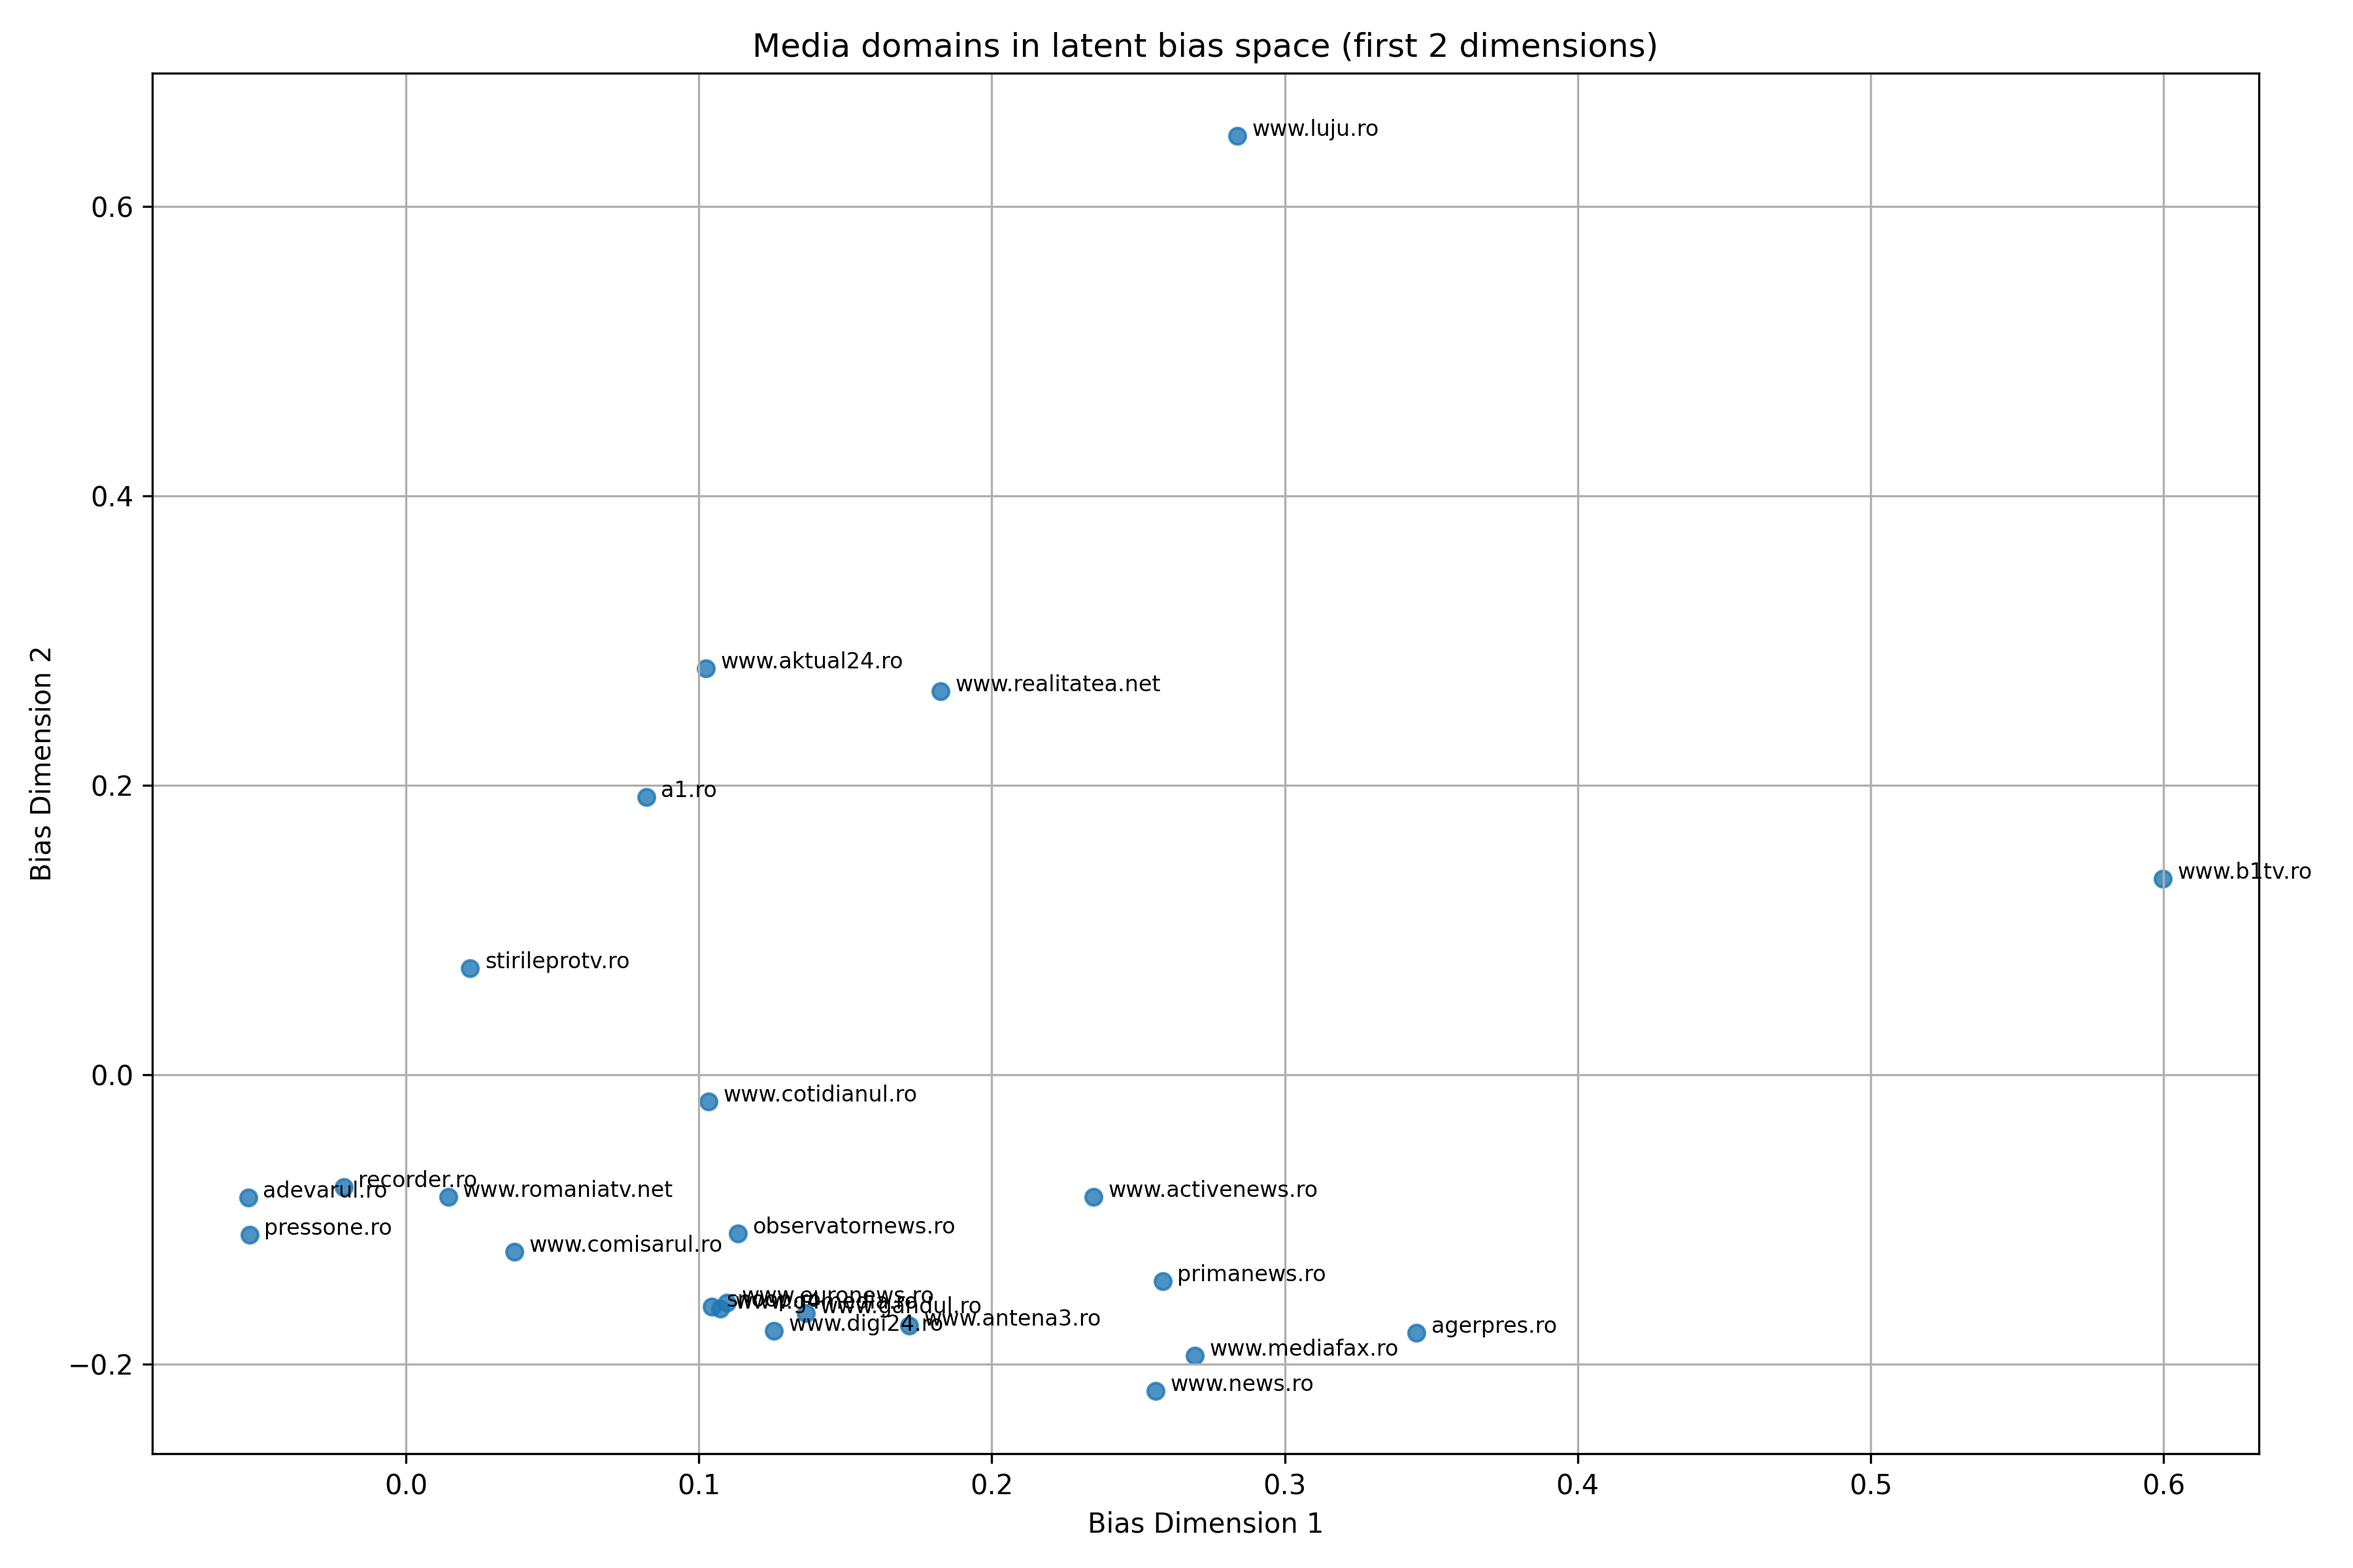
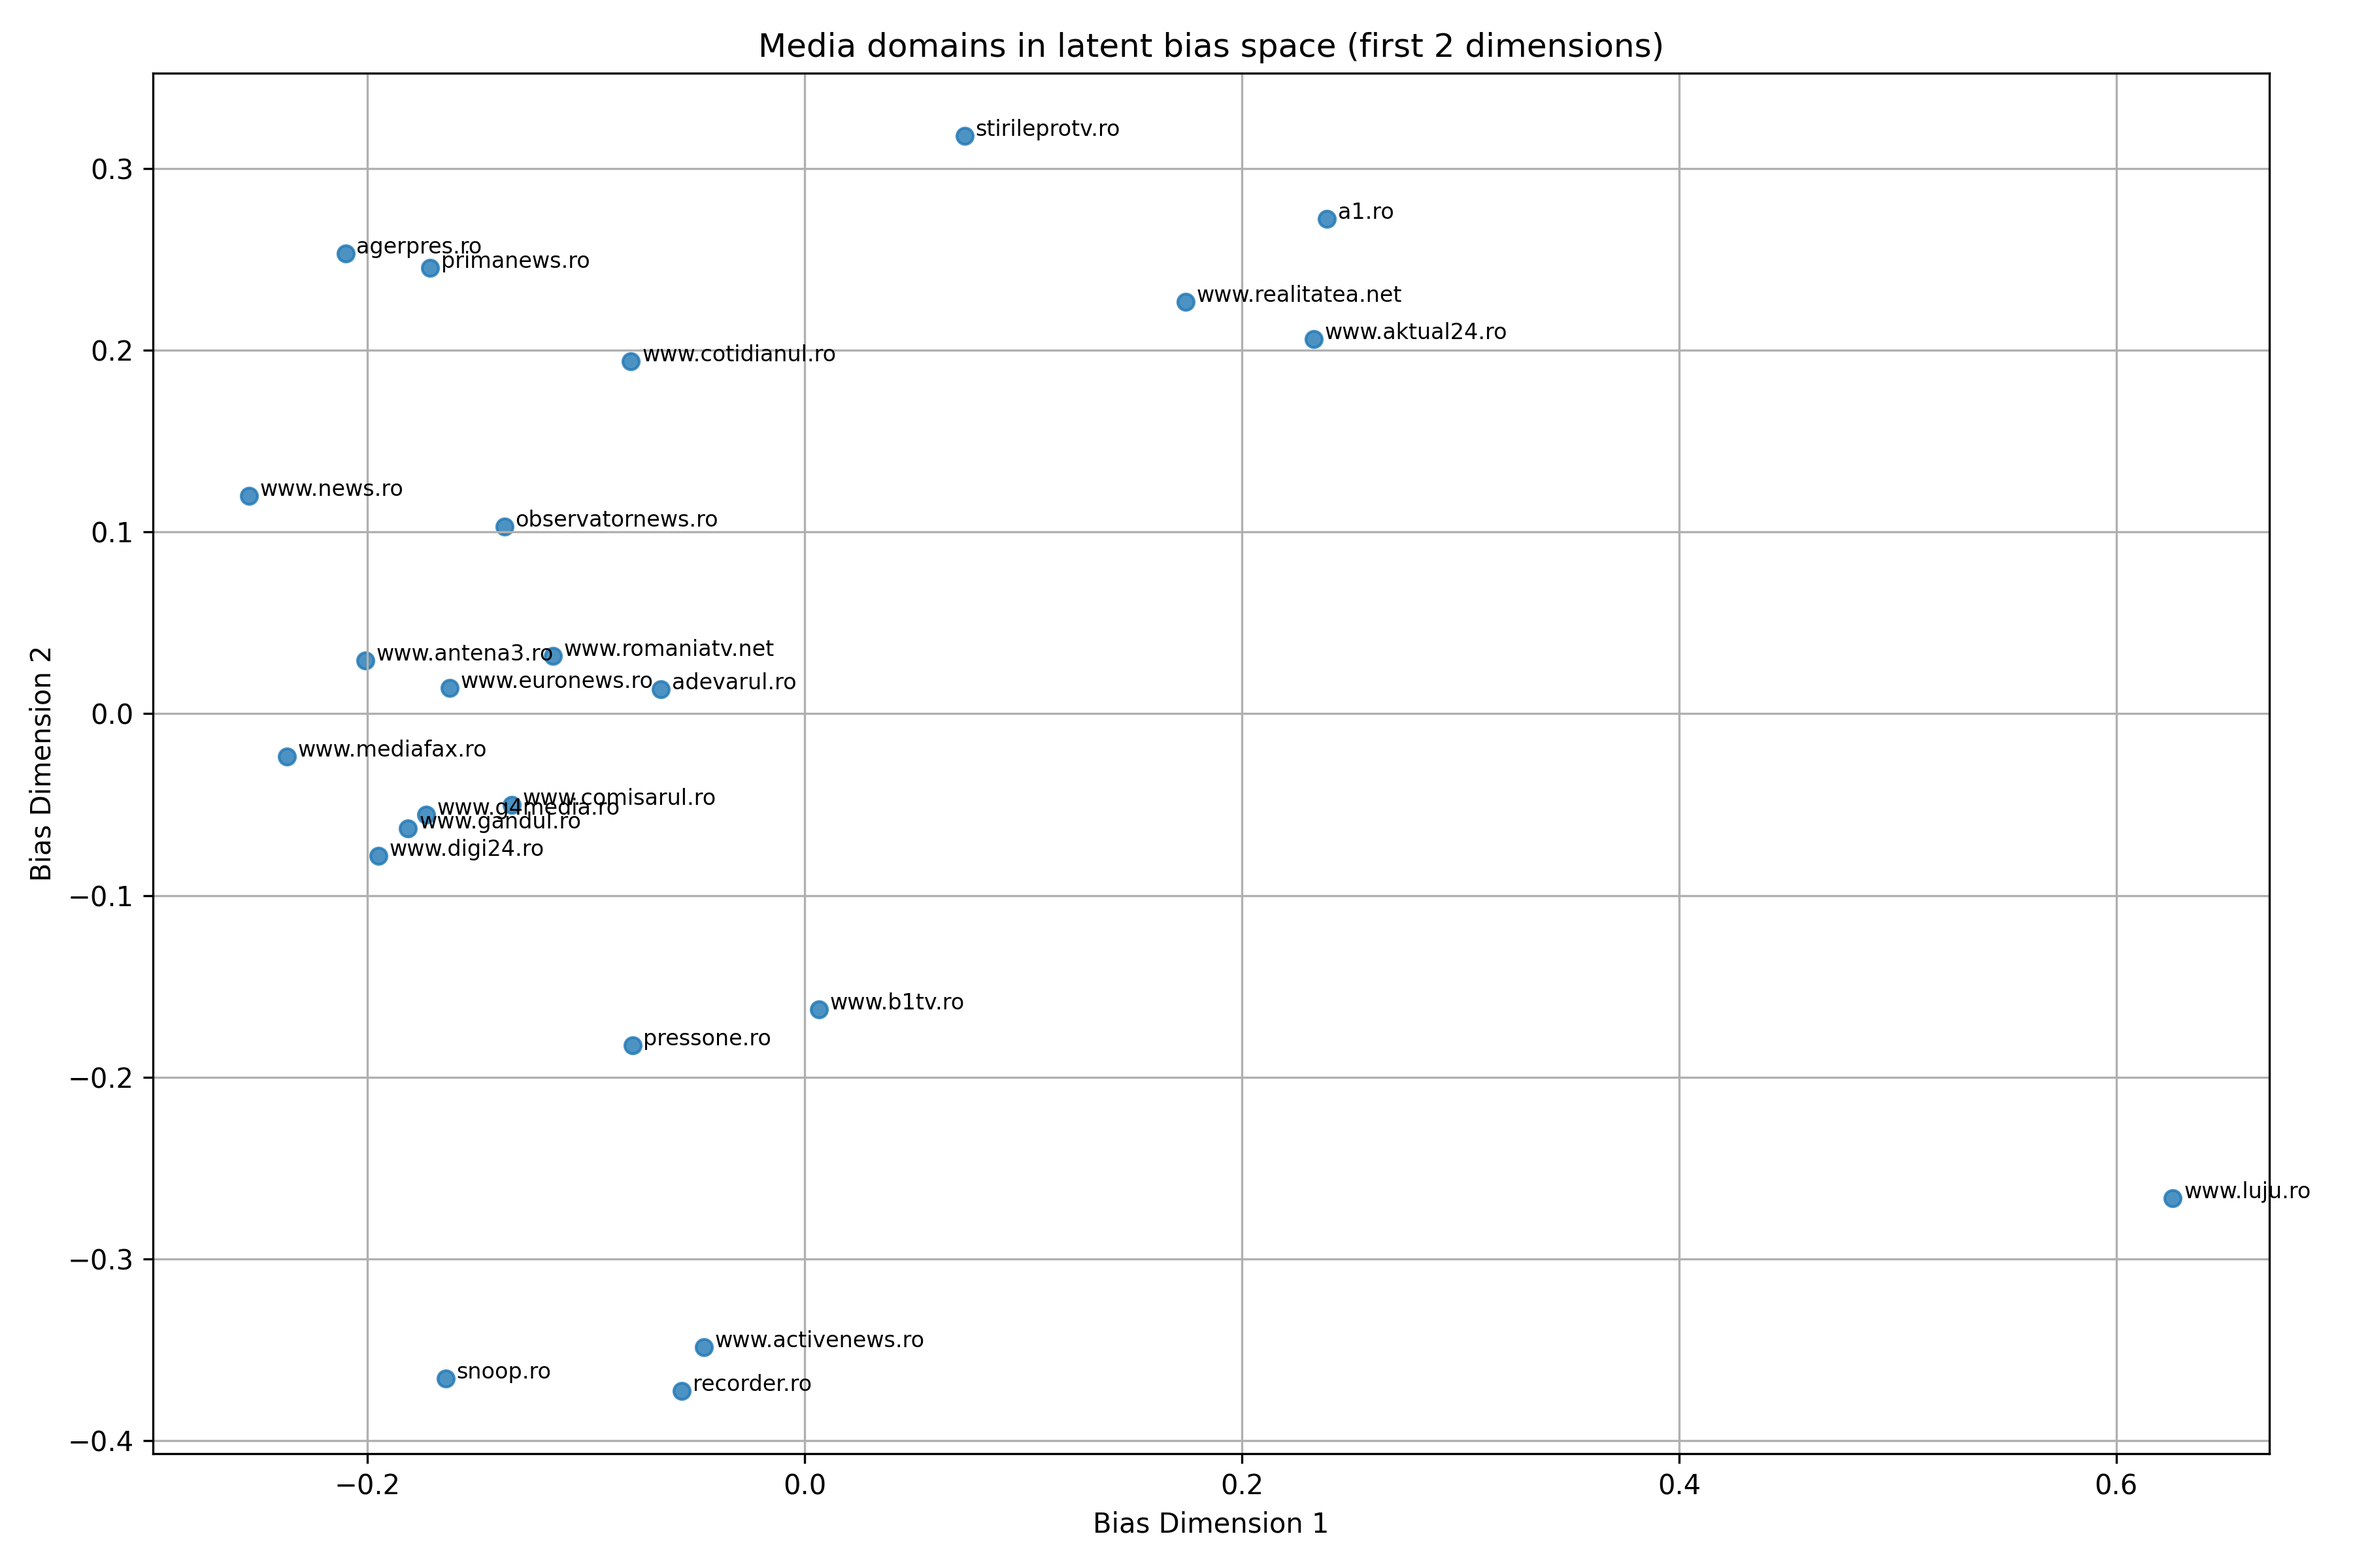
some changes.

diff --git a/ml/PoissonBiasEmbedder.py b/ml/PoissonBiasEmbedder.py
@@ -38,42 +38,55 @@ class PoissonBiasEmbedder:
         U, V, w = self._unpack_params(x)
 
         W = np.diag(w)
-        N = self.nij_matrix.values
-        N_hat = np.exp(U @ W @ V.T)
-
         logits = U @ W @ V.T
         logits = np.clip(logits, -20, 20)
 
+        N = self.nij_matrix.values
         N_hat = np.exp(logits)
-        eps = 1e-10
-        loss = np.sum(N_hat - N * np.log(N_hat + eps))
 
-        # Add L2 regularization
-        loss += self.l2_regularization * (np.sum(U ** 2) + np.sum(V ** 2) + np.sum(w ** 2))
+        loss = np.sum(N_hat - N * logits)
+
+        # L2 regularization
+        loss += self.l2_regularization * (np.sum(U**2) + np.sum(V**2) + np.sum(w**2))
 
         # Gradient
-        D = N_hat - N                                           # (m, n)
+        D = N_hat - N  # Shape (m, n)
 
-        grad_U = D @ V @ W.T + 2 * self.l2_regularization * U   # (m, r)
-        grad_V = D.T @ U @ W + 2 * self.l2_regularization * V   # (n, r)
-        grad_w = np.array([(U[:, k][:, None] * D) @ V[:, k] for k in range(self.rank)])
-        grad_w = grad_w.sum(axis=1) + 2 * self.l2_regularization * w
-        grad = np.concatenate([grad_U.ravel(), grad_V.ravel(), grad_w.ravel()])
+        grad_U = D @ V @ W.T + 2 * self.l2_regularization * U
+        grad_V = D.T @ U @ W + 2 * self.l2_regularization * V
 
+        grad_w = np.array([
+            np.sum(U[:, k][:, None] * D * V[:, k][None, :])
+            for k in range(self.rank)
+        ])
+        grad_w += 2 * self.l2_regularization * w
+
+        grad = np.concatenate([grad_U.ravel(), grad_V.ravel(), grad_w])
         return loss, grad
 
-    def fit(self, max_iter: int = 100):
+
+    def fit(self, max_iter: int = 500):
         x0 = self._init_params()
+
+        bound_limit = 10.0
+        bounds = [(None, None)] * (self.m * self.rank + self.n * self.rank) + \
+                [(-bound_limit, bound_limit)] * self.rank
+
         result = minimize(
-            fun=lambda x: self._loss_and_grad(x),
+            fun=self._loss_and_grad,
             x0=x0,
             jac=True,
             method="L-BFGS-B",
-            options={"maxiter": max_iter, "disp": True}
+            bounds=bounds,
+            options={
+                "maxiter": max_iter,
+                "disp": True,
+                "gtol": 1e-5
+            }
         )
 
         self.U, self.V, self.w = self._unpack_params(result.x)
-        self.N_hat = np.exp(self.U @ np.diag(self.w) @ self.V.T)
+        self.N_hat = np.exp(np.clip(self.U @ np.diag(self.w) @ self.V.T, -20, 20))
         return result
 
     def get_phrase_embeddings(self):

diff --git a/visualization/visualize_ml_top_phrases_tf_idf.py b/visualization/visualize_ml_top_phrases_tf_idf.py
@@ -42,7 +42,6 @@ if __name__ == "__main__":
     logging.info(f"Loading TF-IDF matrix from {PHRASE_TFIDF_FILE}...")
     phrase_tfidf = pd.read_csv(PHRASE_TFIDF_FILE, index_col=0)
 
-    # Compute each phrase's highest TF–IDF across all media sources
     logging.info("Computing max TF-IDF per phrase...")
     max_tfidf = phrase_tfidf.max(axis=1).rename("tfidf")
 
@@ -60,5 +59,5 @@ if __name__ == "__main__":
     top_100_dim1_by_tfidf = get_top_n_by_dim(top_500_dim1, "tfidf", n=100)
     top_100_dim2_by_tfidf = get_top_n_by_dim(top_500_dim2, "tfidf", n=100)
 
-    print_top_phrases(top_100_dim1_by_tfidf, dim="tfidf", n=50)
-    print_top_phrases(top_100_dim2_by_tfidf, dim="tfidf", n=50)
+    print_top_phrases(top_100_dim1_by_tfidf, dim="tfidf", n=10)
+    print_top_phrases(top_100_dim2_by_tfidf, dim="tfidf", n=10)

diff --git a/visualization/visualize_ml_phrase_source_bias_dimensions_2d.py b/visualization/visualize_ml_phrase_source_bias_dimensions_2d.py
@@ -1,7 +1,7 @@
 import pandas as pd
 import matplotlib.pyplot as plt
 
-DOMAIN_EMBEDDINGS_FILE = "dataset/ml/domain_embeddings.csv"
+DOMAIN_EMBEDDINGS_FILE = "dataset/ml/phrase_domain_domain_embeddings.csv"
 PLOT_OUTPUT_FILE = "visualization/plots/phrase_source_bias_space_2d.png"
 
 # Load the domain embeddings
